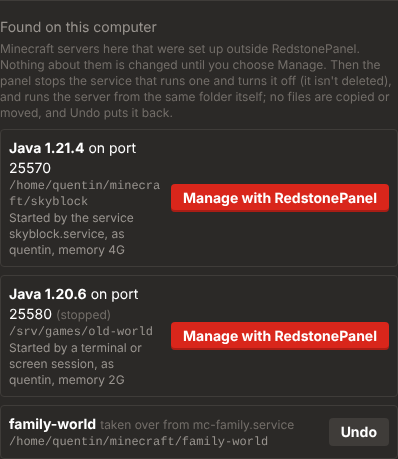
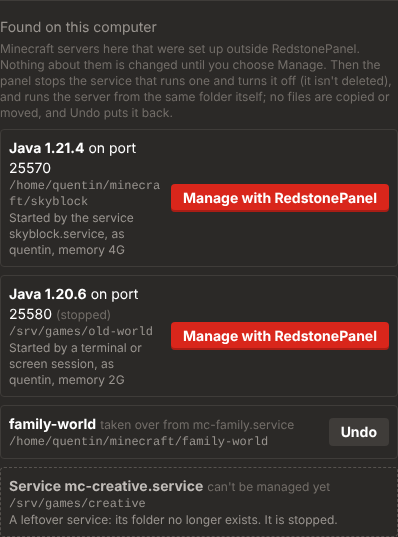
Release 1.22.0: RedstonePanel on Windows (preview)
Changelog, release notes, What's new, README, roadmap As built, and the manual's picture and
text for Found on this computer's notes (picture made with sample data).

Claude-Session: https://claude.ai/code/session_01S6K3gxTyEGm48ox55NikQT

diff --git a/release-notes/v1.22.0.md b/release-notes/v1.22.0.md
@@ -1,0 +1,63 @@
+RedstonePanel now installs on Windows, as a preview: Java servers on one computer, with nearly everything the Linux panel has.
+
+## New
+
+- **A Windows installer.** `RedstonePanel-1.22.0-x64.msi` (below) installs the panel on **Windows 11** and **Windows Server 2022 or 2025**, 64-bit Intel or AMD, with no WSL. Python and everything the panel needs come inside it. Java (Eclipse Temurin) is downloaded the first time a server needs it. Windows 10 installs too but isn't tested.
+
+- **What the preview does on Windows:** Java servers (Vanilla, Paper, Purpur and Fabric) on one computer, with backups and restore, schedules, the console, Live Chat with quick commands, the file manager and its Visual Editor, add-ons, the firewall, performance charts, crash explanations, webhooks, two-factor sign-in, join pages, a servers folder on any drive, and **Found on this computer**.
+
+- **Not on Windows yet:** Bedrock servers, Quilt, Forge and NeoForge, modpacks, memory and CPU limits, off-site backup storage, SFTP, the terminal, clusters and updating from the panel. The panel leaves them out on Windows instead of offering them; they come in 1.23 and 1.24. For them today, use Linux or WSL.
+
+- **Ordinary Windows underneath.** The panel is the service **RedstonePanel**. Each game server is its own service (`minecraft-<name>`) running as its own account that can reach only its own folder. Schedules are tasks under **RedstonePanel** in Task Scheduler, and game ports are rules in the **RedstonePanel** group in Windows Defender Firewall. Game servers and schedules keep running while the panel is stopped, and start with Windows.
+
+- **Found on this computer** (New server) now always shows for an admin, on Linux too: the servers the panel can take over, then what it saw and can't manage with the reason (a running server whose files are missing, a leftover service whose folder is gone, a service that isn't a game server), or that nothing was found.
+
+## Installing on Windows
+
+1. Download `RedstonePanel-1.22.0-x64.msi` below and open it. The preview isn't signed yet, so SmartScreen says **Windows protected your PC**: choose **More info**, then **Run anyway**. Its SHA-256 is in `RedstonePanel-1.22.0-x64.msi.sha256` next to it.
+2. Choose where servers, backups and settings are kept. The default is `C:\ProgramData\RedstonePanel`; the folder's name can't have a space in it.
+3. Open **http://localhost:8080** and sign in as **admin** with the password in `first-sign-in.txt` in that folder (open it as an administrator). Change the password under **Users**, then delete the file.
+
+To update later, run the newer installer; your servers, worlds and settings stay. See [On Windows (preview)](https://github.com/qrussell/redstonepanel/blob/main/docs/guide/README.md#on-windows-preview) in the manual.
+
+Tested: GitHub's Windows Server 2022 and 2025 machines install the MSI and run the Windows install test (a Java server from Adoptium's Java: create, start, console, file manager, backups and restore, schedules, a crash and its restart, webhooks, stop and start, the Performance card, join pages, the servers folder and Found servers), then install it again over itself and remove it. The panel was also run on a Windows PC by hand. The 1,015 unit tests pass, and the Linux install and cluster tests are unchanged.
+
+## Upgrading an existing panel
+
+- Linux: nothing to do.
+
+## Installing
+
+RedstonePanel runs on **Ubuntu 24.04, 26.04 and 26.10**, **Debian 13** and **64-bit Raspberry Pi OS** (Raspberry Pi 4 or 5), on x86-64 and ARM64. See [Supported systems](https://github.com/qrussell/redstonepanel#supported-systems). The easiest way to install it, and to get every later version with `apt upgrade`, is the signed **qrussell-repo** apt repository:
+
+```bash
+sudo apt install -y curl ca-certificates
+curl -fsSL https://qrussell.github.io/qrussell-repo/deb/qrussell-repo.gpg | sudo tee /usr/share/keyrings/qrussell-repo.gpg >/dev/null
+echo "deb [signed-by=/usr/share/keyrings/qrussell-repo.gpg] https://qrussell.github.io/qrussell-repo/deb ./" | sudo tee /etc/apt/sources.list.d/qrussell.list
+sudo apt update
+sudo apt install redstonepanel
+```
+
+Or in one line: `curl -fsSL https://raw.githubusercontent.com/qrussell/redstonepanel/main/install.sh | sudo sh`
+
+Then open **http://&lt;server&gt;:8080/** and sign in with a Linux account in the `sudo` group.
+
+To check the repository key before trusting it, `gpg --show-keys /usr/share/keyrings/qrussell-repo.gpg` should show the fingerprint `9994A9EB39EB3C101C949FB2012BA14E0FE3A355`.
+
+Prefer not to add a repository? Download `redstonepanel_1.22.0_all.deb` below and run `sudo apt install ./redstonepanel_1.22.0_all.deb`. You then install each new version the same way.
+
+The [user manual](https://github.com/qrussell/redstonepanel/blob/main/docs/guide/README.md) walks through every feature, with screenshots.
+
+## Upgrading
+
+If you use the qrussell-repo repository:
+
+```bash
+sudo apt update && sudo apt upgrade
+```
+
+New versions reach the repository within a few hours of their release. Otherwise, install the new .deb as above.
+
+Running servers keep running through the upgrade.
+
+**Full Changelog**: https://github.com/qrussell/redstonepanel/compare/v1.21.10...v1.22.0

diff --git a/docs/design/roadmap.md b/docs/design/roadmap.md
@@ -1,6 +1,6 @@
 # RedstonePanel roadmap
 
-Status: planning · Written after 1.5.0 (17 Nov 2026), updated for 1.21.10 (24 Nov 2026), with the release order revised the same day: moving servers between cluster members, a first-run setup guide, kick and ban with the redstone branding, a folding server list, two-factor sign-in (1.16.7), backups on another node (1.16.8), newer Ubuntu, Debian, ARM64 and Raspberry Pi (1.16.9), a phone-friendly panel (1.16.10), backups off the machine without a cluster (1.16.11) Bedrock auto-updates and update alerts (1.16.12) pre-copy and LAN discovery (1.16.13) a port forwarding guide (1.16.14), performance (1.17), crash explanations (1.17.1), Advanced options on New server (1.17.2), per-server permissions and SFTP (1.18), changing a server's type or version (1.19) Forge, NeoForge, Quilt, Purpur and modpacks (1.20) the groundwork for Windows (1.21) a servers folder you choose (1.21.1), a one-click light/dark switch (1.21.2), finding servers set up outside the panel (1.21.3), quick commands in Live Chat (1.21.4), join pages (1.21.5), player packs (1.21.6) a Visual Editor for settings files (1.21.7) security fixes from code scanning (1.21.8) join pages through a proxy (1.21.9) and a terminal in the panel (1.21.10) shipped; a native Windows version (1.22 to 1.24) and API tokens (2.0) next, with proposed additions below · Author: Quentin Russell
+Status: planning · Written after 1.5.0 (17 Nov 2026), updated for 1.22.0 (24 Nov 2026), with the release order revised the same day: moving servers between cluster members, a first-run setup guide, kick and ban with the redstone branding, a folding server list, two-factor sign-in (1.16.7), backups on another node (1.16.8), newer Ubuntu, Debian, ARM64 and Raspberry Pi (1.16.9), a phone-friendly panel (1.16.10), backups off the machine without a cluster (1.16.11) Bedrock auto-updates and update alerts (1.16.12) pre-copy and LAN discovery (1.16.13) a port forwarding guide (1.16.14), performance (1.17), crash explanations (1.17.1), Advanced options on New server (1.17.2), per-server permissions and SFTP (1.18), changing a server's type or version (1.19) Forge, NeoForge, Quilt, Purpur and modpacks (1.20) the groundwork for Windows (1.21) a servers folder you choose (1.21.1), a one-click light/dark switch (1.21.2), finding servers set up outside the panel (1.21.3), quick commands in Live Chat (1.21.4), join pages (1.21.5), player packs (1.21.6) a Visual Editor for settings files (1.21.7) security fixes from code scanning (1.21.8) join pages through a proxy (1.21.9) a terminal in the panel (1.21.10) and the Windows preview (1.22) shipped; the rest of the Windows version (1.23 and 1.24) and API tokens (2.0) next, with proposed additions below · Author: Quentin Russell
 
 The public summary of this plan is [docs/wiki/Roadmap.md](../wiki/Roadmap.md); keep the two in
 step when either changes.
@@ -1754,6 +1754,25 @@ installs with an end-of-support note and isn't tested. Windows on ARM is left fo
     panel accounts with two-factor, self-signed HTTPS, the host dashboard and the first-run
     guide. Labelled a preview in the panel and the release notes. **Gate:** a Windows install
     test passes on GitHub's `windows-2022` and `windows-2025` runners. **Size:** large.
+
+    **As built (released 24 Nov 2026).** As planned, with these differences. The runner is the
+    panel's own Python program (`core/platform/windows/runner.py`, standard library and
+    `ctypes`), not WinSW. Windows keeps the same systemd-format unit files, which the runner
+    reads, so feature code is shared; timers become Task Scheduler tasks. Each server runs as
+    its own virtual account (`NT SERVICE\minecraft-<name>`) with rights to its own folder only.
+    Event-log triggers in Task Scheduler didn't fire reliably, so the crash task reads the
+    runner's own event files. Python 3.13 makes folders with inheritance turned off, so the panel
+    turns it on below each server folder; a jar moved in from elsewhere keeps its old rights, so
+    a found server's files are granted by name. Releases made while it was built came along:
+    the servers folder on any drive (1.21.1, with a drive list on Windows), Found servers (1.21.3,
+    with the Windows process tree and services), quick commands, join pages and player packs,
+    the Visual Editor. Not in the preview: the terminal (1.21.10), which needs ConPTY and Windows
+    account sign-in; it is left for a later Windows release. Found while testing: Linux-only calls outside
+    `core/platform` (`os.major`) broke the Performance card on Windows; fixed, and the Windows
+    install test now opens it. Tested: `.github/workflows/windows.yml` on `windows-2022` and
+    `windows-2025` (staged install and MSI, upgrade over itself, removal), and Quentin's own
+    Windows PC. The release attaches the MSI and its SHA-256; the MSI isn't signed yet
+    (SignPath application pending).
 
 28. **1.23: the whole single machine.** Bedrock and its auto-update, Phantom, hard limits and
     performance history, crash explanations with Windows causes, off-site backups over `sftp`

diff --git a/docs/wiki/Roadmap.md b/docs/wiki/Roadmap.md
@@ -69,4 +69,4 @@ close the gaps people most often notice when choosing a panel.
 
 ## Recently shipped
 
-See [What's New](Whats-New.md). The latest: **1.21.10** opens a shell on the machine in your browser, for admins, as a Linux account; **1.21.9** lets HAProxy or Cloudflare serve the join pages on your own domain, and keeps upgrades from restarting game servers; **1.21.8** fixes security problems found by code scanning: the panel works in server folders with the game account's rights, so links there can't reach other files; **1.21.7** opens settings files such as `server.properties` and `eula.txt` on the Files tab in a Visual Editor like Configuration's; **1.21.6** adds player packs: the mods players need, built from the server's own mods folder and offered on its join page; **1.21.5** adds join pages: a public page per server that tells players how to join, on a port of its own; **1.21.4** adds quick commands to Live Chat: suggestions as you type, a form that builds the command and one-click buttons; **1.21.3** finds Minecraft servers set up outside the panel and can take them over in place, with undo; **1.21.2** makes light/dark mode a one-click switch in the top right corner; **1.21.1** lets you choose the disk and folder servers are kept in; **1.21** is groundwork for the Windows version, with nothing changed on screen; **1.20** adds Purpur, Quilt, NeoForge and Forge servers and modpacks from Modrinth or a CurseForge server pack; **1.19** changes a Java server's type in place (Vanilla, Paper, Fabric) with a backup and undo, and rolls back updates; **1.18** adds per-server permissions for helpers and SFTP for FileZilla or WinSCP; **1.17.2** adds Advanced options to New server (builds, Java, memory, limits, startup flags, world and settings); **1.17.1** explains why a server crashed and offers the fix; **1.17** adds performance charts, suggestions and memory and CPU limits; **1.16.14** adds the Port forwarding page, and **1.16.13** moves big worlds with seconds of downtime.
+See [What's New](Whats-New.md). The latest: **1.22** is the Windows preview: an installer for Windows 11 and Server 2022 or 2025 that runs Java servers on one computer; **1.21.10** opens a shell on the machine in your browser, for admins, as a Linux account; **1.21.9** lets HAProxy or Cloudflare serve the join pages on your own domain, and keeps upgrades from restarting game servers; **1.21.8** fixes security problems found by code scanning: the panel works in server folders with the game account's rights, so links there can't reach other files; **1.21.7** opens settings files such as `server.properties` and `eula.txt` on the Files tab in a Visual Editor like Configuration's; **1.21.6** adds player packs: the mods players need, built from the server's own mods folder and offered on its join page; **1.21.5** adds join pages: a public page per server that tells players how to join, on a port of its own; **1.21.4** adds quick commands to Live Chat: suggestions as you type, a form that builds the command and one-click buttons; **1.21.3** finds Minecraft servers set up outside the panel and can take them over in place, with undo; **1.21.2** makes light/dark mode a one-click switch in the top right corner; **1.21.1** lets you choose the disk and folder servers are kept in; **1.21** is groundwork for the Windows version, with nothing changed on screen; **1.20** adds Purpur, Quilt, NeoForge and Forge servers and modpacks from Modrinth or a CurseForge server pack; **1.19** changes a Java server's type in place (Vanilla, Paper, Fabric) with a backup and undo, and rolls back updates; **1.18** adds per-server permissions for helpers and SFTP for FileZilla or WinSCP; **1.17.2** adds Advanced options to New server (builds, Java, memory, limits, startup flags, world and settings); **1.17.1** explains why a server crashed and offers the fix; **1.17** adds performance charts, suggestions and memory and CPU limits; **1.16.14** adds the Port forwarding page, and **1.16.13** moves big worlds with seconds of downtime.

diff --git a/docs/guide/README.md b/docs/guide/README.md
@@ -807,7 +807,7 @@ If the machine already runs a Minecraft server that RedstonePanel didn't make, s
 own systemd service, a script or a `screen` session, the dialog lists it under **Found on this
 computer** with its folder, port, version and what started it. Looking changes nothing.
 
-<picture><source media="(prefers-color-scheme: light)" srcset="images/light/found-servers.png"><img src="images/found-servers.png" alt="Found on this computer: two servers set up outside the panel, and one already handed over with an Undo button"></picture>
+<picture><source media="(prefers-color-scheme: light)" srcset="images/light/found-servers.png"><img src="images/found-servers.png" alt="Found on this computer: two servers set up outside the panel, one already handed over with an Undo button, and a leftover service it can't manage"></picture>
 
 Click **Manage with RedstonePanel** to hand one over:
 
@@ -829,6 +829,13 @@ started again. The world is never touched.
 The panel says why when it can't take a server over: a folder inside a home folder the
 `minecraft` account can't get into, a path with a space, a port one of the panel's servers
 already uses, or a Java server that isn't started with `-jar`.
+
+Below them, dashed, the list names what the panel saw but can't manage, with the reason: a server
+running from a folder that no longer has its `server.properties` (its settings and world were
+moved or deleted), one whose folder the panel couldn't read, or a service named for Minecraft
+that is stopped, whose folder is gone, or that runs something other than a game server (a
+proxy, for example). These often come from another tool that was uninstalled. When there is
+nothing at all, the section says so.
 
 **Removed servers** are listed at the bottom of the same dialog. See
 [Restore a removed server](#15-restore-a-removed-server).

diff --git a/README.md b/README.md
@@ -102,6 +102,10 @@ see them in the other theme:
 
 The [user manual](docs/guide/README.md) walks through every feature with screenshots.
 
+## What's new in 1.22
+
+**RedstonePanel on Windows (preview)**. A Windows installer for Windows 11 and Windows Server 2022 or 2025 runs Java servers on one computer, with backups, schedules, the console, Live Chat, the file manager, add-ons, join pages and more; each game server is an ordinary Windows service. Bedrock, modpacks, limits and clusters follow in 1.23 and 1.24. See [On Windows](docs/wiki/Installation.md#on-windows-preview) and the [1.22.0 release notes](release-notes/v1.22.0.md).
+
 ## What's new in 1.21
 
 **A terminal in the panel** *(1.21.10)*. Admins can open a shell on the machine from the browser, on a phone too. It runs as a Linux account, never as the panel: your own if you signed in with it, or the one you log in with at its `login:` prompt. Off until you turn it on, HTTPS only, and every terminal is logged. Read the [1.21.10 release notes](release-notes/v1.21.10.md).

diff --git a/docs/wiki/Whats-New.md b/docs/wiki/Whats-New.md
@@ -9,6 +9,17 @@ the dashboard.
 
 ---
 
+## 1.22: RedstonePanel on Windows (preview) *(November 2026)*
+
+- **A Windows installer** for Windows 11 and Windows Server 2022 or 2025, no WSL needed: Java
+  servers on one computer, with nearly everything the Linux panel has. See
+  [On Windows (preview)](Installation.md#on-windows-preview).
+- Bedrock, more loaders, modpacks, limits, off-site backups, SFTP, the terminal and clusters
+  follow on Windows in 1.23 and 1.24.
+- **Found on this computer** says what it saw and can't manage, and when nothing was found.
+
+[Release notes](../../release-notes/v1.22.0.md)
+
 ## 1.21.10: a terminal in the panel *(November 2026)*
 
 - **⌨ Terminal** on the Dashboard and on each machine of the Cluster page opens a shell on the
